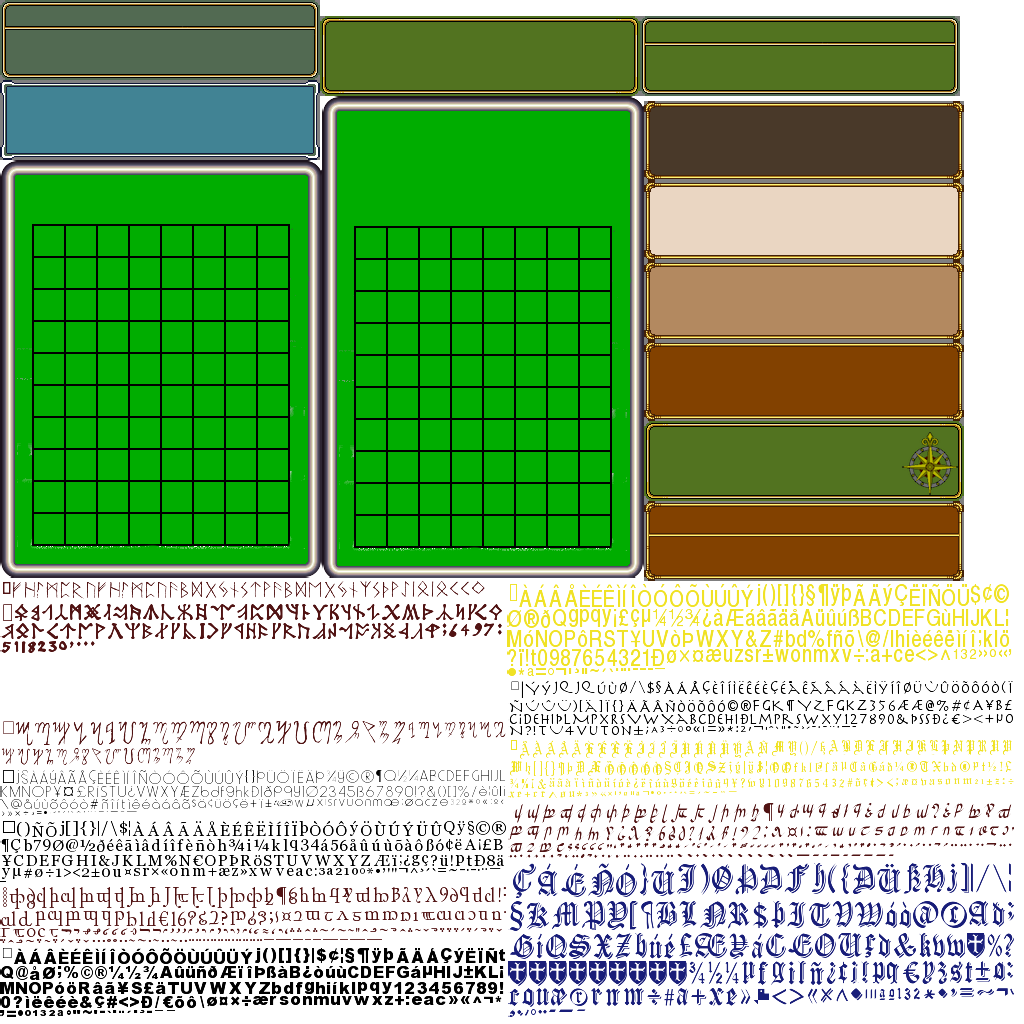
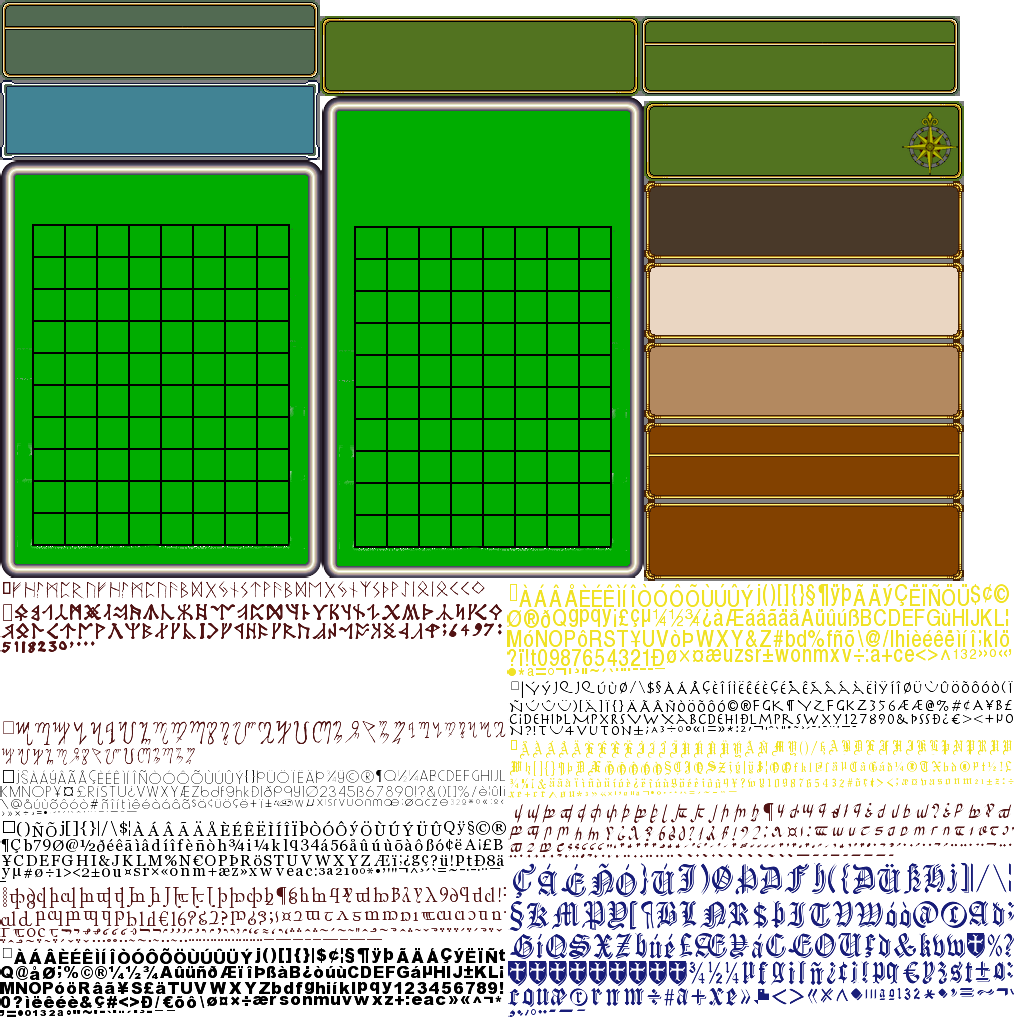
changed option panes to windows  added option pane with no title added code comments

Changed region(s): [[0.625, 0.0938, 0.9688, 0.5312]]

diff --git a/core/src/com/com/jessematty/black/tower/GameBaseClasses/UIClasses/OptionPanes/OptionPane.java b/core/src/com/com/jessematty/black/tower/GameBaseClasses/UIClasses/OptionPanes/OptionPane.java
@@ -11,28 +11,30 @@ import com.badlogic.gdx.scenes.scene2d.ui.Label;
 import com.badlogic.gdx.scenes.scene2d.ui.Label.LabelStyle;
 import com.badlogic.gdx.scenes.scene2d.ui.Skin;
 import com.badlogic.gdx.scenes.scene2d.ui.TextButton;
+import com.badlogic.gdx.scenes.scene2d.ui.TextButton.TextButtonStyle;
+import com.badlogic.gdx.scenes.scene2d.ui.Window;
 import com.jessematty.black.tower.GameBaseClasses.GameAssets;
 import com.jessematty.black.tower.GameBaseClasses.Input.LockableInputMultiplexer;
 import com.jessematty.black.tower.GameBaseClasses.Input.LockableInputProcessor;
 
 import java.util.List;
-public class OptionPane extends Dialog{
+public class OptionPane extends Window {
 	/**
 	 * class for various option pane like dialogs used to display text  or give choices
 	 */
 
 	/**
-	 *  Option Pane With A  Single Button the closes the pane upon clicking it
+	 *  Option Pane With A  Single Button the closes the pane upon clicking it and no title
 	 * @param skin the libGDX skin to be used wth option pane
-	 * @param title the title of the option pane
 	 * @param text the text of the option pane
 	 * @param buttonText the buttons text
 	 */
 	
-	public OptionPane(Skin skin, String title, String text, String buttonText, String style) {
-		super(title, skin, style);
-
-		text(text);
+	public OptionPane(Skin skin, String text, String buttonText, String style) {
+		super("", skin, style);
+		Label label= new Label(text, skin);
+		add(label);
+		row();
 		TextButton button = new TextButton(buttonText, skin, style);
 		button.addListener(new InputListener() {
 			@Override
@@ -40,16 +42,41 @@ public class OptionPane extends Dialog{
 				closePane();
 				return true;
 			}
-
 		});
 		add(button);
-		
-		setPosition(Gdx.graphics.getWidth()/2, Gdx.graphics.getHeight()/2);
 		pack();
 		validate();
+
+
 	}
 
+	/**
+	 *  Option Pane With A  Single Button the closes the pane upon clicking it and no title
+	 * @param skin the libGDX skin to be used wth option pane
+	 * @param text the text of the option pane
+	 * @param title the title of the option pane
+	 * @param buttonText the buttons text
+	 */
 
+	public OptionPane(Skin skin, String title,  String text, String buttonText, String style) {
+		super(title, skin, style);
+		Label label= new Label(text, skin);
+		add(label);
+		row();
+		TextButton button = new TextButton(buttonText, skin, style);
+		button.addListener(new InputListener() {
+			@Override
+			public boolean touchDown(InputEvent event, float x, float y, int pointer, int button) {
+				closePane();
+				return true;
+			}
+		});
+		add(button);
+		pack();
+		validate();
+
+
+	}
 	/**
 	 *  Option Pane With An image and a   Single Button the closes the pane upon clicking it
 	 * @param skin the libGDX skin to be used wth option pane
@@ -61,8 +88,8 @@ public class OptionPane extends Dialog{
 	public OptionPane( Skin skin, String title, String text, String buttonText, AtlasRegion imageView , String style) {
  
 		super(title, skin, style);
-		text(text);
-		TextButton button = new TextButton(buttonText, skin, style);
+		Label label= new Label(text, skin);
+		add(label);		TextButton button = new TextButton(buttonText, skin, style);
 		button.addListener(new InputListener() {
 			@Override
 			public boolean touchDown(InputEvent event, float x, float y, int pointer, int button) {
@@ -91,8 +118,8 @@ public class OptionPane extends Dialog{
 	 */
 	public OptionPane(Skin skin, String title,  String text, String buttonText, String button2Text, Image image,  final OptionPaneAction optionPaneAction, String style) {
 		super(title, skin, style);
-	text(text);
-		TextButton button = new TextButton(buttonText, skin, style);
+		Label label= new Label(text, skin);
+		add(label);		TextButton button = new TextButton(buttonText, skin, style);
 		TextButton button2 = new TextButton(button2Text, skin, style);
 		button.addListener(new InputListener() {
 			@Override
@@ -106,7 +133,7 @@ public class OptionPane extends Dialog{
 		button.addListener(new InputListener() {
 			@Override
 			public boolean touchDown(InputEvent event, float x, float y, int pointer, int button) {
-				hide();
+				closePane();
 				return true;
 			}
 		});
@@ -130,8 +157,8 @@ public class OptionPane extends Dialog{
 	 */
 	public OptionPane(Skin skin, String title,  String text, String buttonText, String button2Text, final OptionPaneAction optionPaneAction, String style) {
 		super(title, skin, style);
-		text(text);
-		TextButton button = new TextButton(buttonText, skin, style);
+		Label label= new Label(text, skin);
+		add(label);		TextButton button = new TextButton(buttonText, skin, style);
 		TextButton button2 = new TextButton(button2Text, skin, style);
 		button.addListener(new InputListener() {
 			@Override
@@ -168,8 +195,8 @@ public class OptionPane extends Dialog{
 		
 		public OptionPane(Skin skin, String title,   String text, List<String> buttonText, final List<OptionPaneAction> actions,  String style){
 			super(title, skin, style);
-			text(text);
-			int size=buttonText.size();
+			Label label= new Label(text, skin);
+			add(label);			int size=buttonText.size();
 			for ( int count=0; count<size; count++){
 				TextButton button = new TextButton(buttonText.get(count), skin, style);
 				int finalCount = count;
@@ -194,7 +221,7 @@ public class OptionPane extends Dialog{
 	 * method to close the option pane hides the window and unlocks the input processors
 	 */
 	private void closePane(){
-		hide();
+		addAction(Actions.removeActor(this));
 		GameAssets.getGameInput().getLockableInputMultiplexer().unlockAllProcessors();
 
 	}

diff --git a/core/src/com/com/jessematty/black/tower/GameBaseClasses/UIClasses/Stages/GameStage.java b/core/src/com/com/jessematty/black/tower/GameBaseClasses/UIClasses/Stages/GameStage.java
@@ -1,6 +1,7 @@
 package com.jessematty.black.tower.GameBaseClasses.UIClasses.Stages;
 import com.badlogic.gdx.scenes.scene2d.Actor;
 import com.badlogic.gdx.scenes.scene2d.Stage;
+import com.badlogic.gdx.scenes.scene2d.ui.Dialog;
 import com.badlogic.gdx.scenes.scene2d.ui.Label;
 import com.badlogic.gdx.utils.Disposable;
 import com.badlogic.gdx.utils.viewport.FillViewport;
@@ -47,6 +48,15 @@ public class GameStage extends Stage implements Disposable {
     public void addWindow(Actor window, ScreenPosition screenPosition) {
         window.setPosition(screenPosition.getX(), screenPosition.getY());
      addActor(window);
+    }
+    /**
+     *  adds  a libGDX scene 2d UI component  to the  screen to be displayed
+     * @param window
+     * @param screenPosition
+     */
+    public void addWindow(Dialog window, ScreenPosition screenPosition) {
+        window.setPosition(screenPosition.getX(), screenPosition.getY());
+        window.show(this);
     }
     public void addLabel(Label label, float positionX, float positionY){
         label.setPosition(positionX, positionY);

diff --git a/core/src/com/com/jessematty/black/tower/GameBaseClasses/Player/ZRPGPlayer/ZRPGPlayerFunctions.java b/core/src/com/com/jessematty/black/tower/GameBaseClasses/Player/ZRPGPlayer/ZRPGPlayerFunctions.java
@@ -21,6 +21,12 @@ public class ZRPGPlayerFunctions {
     private ZRPGCharacter player;
     private final  Array<InputKeyCombo> playerControlFunctions= new Array<>();
     private final MapDraw mapDraw;
+
+    /**
+     * adds default player functions
+     * @param draw
+     * @param player
+     */
     public ZRPGPlayerFunctions(MapDraw draw , ZRPGCharacter player) {
         this.player = player;
         this.mapDraw=draw;
@@ -53,7 +59,7 @@ public class ZRPGPlayerFunctions {
         @Override
         public void act() {
             GameAssets.getGameInput().getLockableInputMultiplexer().lockAllOtherProcessorMouseInput(mapDraw.getUiStage());
-            mapDraw.getUiStage().addWindow(new OptionPane(mapDraw.getCurrentMap().getSkin(), "OK", "Are You Ok?", "Click Me!!!", "lpcOptionPane"), ScreenPosition.CENTER);
+            mapDraw.getUiStage().addWindow(new OptionPane(mapDraw.getCurrentMap().getSkin(),  "Are You Ok?", "Click Me!!!", "lpcOptionPane"), ScreenPosition.CENTER);
         }
     };
   private   KeyAction stop= new KeyAction() {

diff --git a/desktop/src/com/jessematty/black/tower/desktop/DesktopLauncher.java b/desktop/src/com/jessematty/black/tower/desktop/DesktopLauncher.java
@@ -1,5 +1,6 @@
 package com.jessematty.black.tower.desktop;
 
+import com.badlogic.gdx.Graphics;
 import com.badlogic.gdx.backends.lwjgl3.Lwjgl3Application;
 import com.badlogic.gdx.backends.lwjgl3.Lwjgl3ApplicationConfiguration;
 import com.jessematty.black.tower.GameBaseClasses.BlackTower;
@@ -8,6 +9,8 @@ public class DesktopLauncher {
 
 	public static void main (String[] arg) {
 		Lwjgl3ApplicationConfiguration config = new Lwjgl3ApplicationConfiguration();
+		Graphics.DisplayMode dm = Lwjgl3ApplicationConfiguration.getDisplayMode();
+		config.setWindowedMode((int) (dm.width*.75), (int) (dm.height*.75));
 		new Lwjgl3Application(new BlackTower(), config);
 	}
 }
